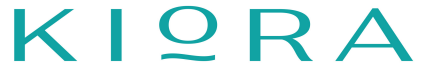
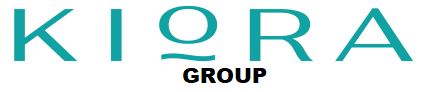
update

diff --git a/Kiora/index.html b/Kiora/index.html
@@ -27,14 +27,6 @@
   <link href="https://cdn.jsdelivr.net/npm/bootstrap@5.3.0-alpha3/dist/css/bootstrap.min.css" rel="stylesheet">
   <!-- Main CSS File -->
   <link href="assets/css/main.css" rel="stylesheet">
-
-  <!-- =======================================================
-  * Template Name: QuickStart
-  * Template URL: https://bootstrapmade.com/quickstart-bootstrap-startup-website-template/
-  * Updated: Aug 07 2024 with Bootstrap v5.3.3
-  * Author: BootstrapMade.com
-  * License: https://bootstrapmade.com/license/
-  ======================================================== -->
 </head>
 
 <body class="index-page">
@@ -43,7 +35,7 @@
  
     <div class="logo-section">
       
-      <p data-aos="fade-up" data-aos-delay="100"><img src="assets/img/kio.png" alt=""><br></p>
+      <p data-aos="fade-up" data-aos-delay="100"><img src="assets/img/kior.png" alt=""><br></p>
 
       <i class="mobile-nav-toggle d-xl-none bi bi-list"></i>
 
@@ -303,7 +295,7 @@
 
                 <div class="row mt-4">
                   <div class="col-3 col-md-3 mb-4" style="text-align: center;">
-                    <a href="https://accessories.kioragroup.com/product-category/women/" target="_blank">
+                    <a href="https://accessories.kioragroup.com/product-category/women/earrings/" target="_blank">
                       <div class="bg-light rounded-circle p-3">
                         <img src="assets/img/EARRINGS.jpg" alt="Earrings" class="img-fluid rounded-circle"
                           style="width: 60px;">
@@ -312,7 +304,7 @@
                     </a>
                   </div>
                   <div class="col-3 col-md-3 mb-4" style="text-align: center;">
-                    <a href="https://accessories.kioragroup.com/product-category/women/">
+                    <a href="https://accessories.kioragroup.com/product-category/gift-items/brooch/">
                       <div class="bg-light rounded-circle p-3">
                         <img src="assets/img/BROOCHES.jpg" alt="Earrings" class="img-fluid rounded-circle"
                           style="width: 60px;">
@@ -321,7 +313,7 @@
                     </a>
                   </div>
                   <div class="col-3  col-md-3 mb-4" style="text-align: center;">
-                    <a href="https://accessories.kioragroup.com/product-category/women/">
+                    <a href="https://accessories.kioragroup.com/product-category/christmas-items/bracelet/">
                       <div class="bg-light rounded-circle p-3">
                         <img src="assets/img/ANKLETS.jpg" alt="Earrings" class="img-fluid rounded-circle"
                           style="width: 60px;">
@@ -342,7 +334,7 @@
                 </div>
                 <div class="row mt-4">
                   <div class="col-3  col-md-3 mb-4" style="text-align: center;">
-                    <a href="https://accessories.kioragroup.com/product-category/women/">
+                    <a href="https://accessories.kioragroup.com/product-category/women/womens-rings/">
                       <div class="bg-light rounded-circle p-3">
                         <img src="assets/img/RINGS.jpg" alt="Earrings" class="img-fluid rounded-circle"
                           style="width: 60px;">
@@ -351,7 +343,7 @@
                     </a>
                   </div>
                   <div class="col-3  col-md-3 mb-4" style="text-align: center;">
-                    <a href="https://accessories.kioragroup.com/product-category/women/">
+                    <a href="https://accessories.kioragroup.com/product-category/christmas-items/bracelet/">
                       <div class="bg-light rounded-circle p-3">
                         <img src="assets/img/BRACELETS.jpg" alt="Earrings" class="img-fluid rounded-circle"
                           style="width: 60px;">
@@ -423,7 +415,7 @@
 
     <div class="container footer-top">
       <div class="row gy-4">
-        <div class="col-lg-4 col-md-6 footer-about">
+        <div class="col-lg-6 col-md-6 footer-about">
           <a href="index.html" class="logo d-flex align-items-center">
             <img src="assets/img/kio.png" alt="">
           </a>
@@ -434,14 +426,12 @@
             <p><strong>Email:</strong> <span>info@kioraaccessories.com</span></p>
           </div>
           <div class="social-links d-flex mt-4">
-            <a href=""><i class="bi bi-whatsapp"></i></a>
-            <a href=""><i class="bi bi-facebook"></i></a>
-            <a href=""><i class="bi bi-instagram"></i></a>
-            <a href=""><i class="bi bi-tiktok"></i></a>
+            <a href="https://wa.me/971503559227"><i class="bi bi-whatsapp"></i></a>
+            <a href="https://www.facebook.com/KioraAccessories"><i class="bi bi-facebook"></i></a>
+            <a href="https://www.instagram.com/kiora_accessories/"><i class="bi bi-instagram"></i></a>
+            <a href="https://www.tiktok.com/@kiora.accessories"><i class="bi bi-tiktok"></i></a>
           </div>
-        </div>
-
-        
+        </div>       
 
         <div class="col-lg-2 col-md-3 footer-links">
           <h4>Policies</h4>
@@ -471,10 +461,6 @@
       <p>© <span>copyright @ kioragroup.com</span> <strong class="px-1 sitename">Kiora Group</strong><span>All Rights
           Reserved</span></p>
       <div class="credits">
-        <!-- All the links in the footer should remain intact. -->
-        <!-- You can delete the links only if you've purchased the pro version. -->
-        <!-- Licensing information: https://bootstrapmade.com/license/ -->
-        <!-- Purchase the pro version with working PHP/AJAX contact form: [buy-url] -->
         Designed by <a href="https://tritcal.com/">Tritcal International (Pvt) Ltd </a>
       </div>
     </div>
@@ -482,7 +468,7 @@
   </footer>
 
   <div class="whatsapp-button">
-    <a href="https://wa.me/00971503559227" target="_blank">
+    <a href="https://wa.me/971503559227" target="_blank">
       <img src="https://upload.wikimedia.org/wikipedia/commons/6/6b/WhatsApp.svg" alt="WhatsApp" />
     </a>
   </div>
